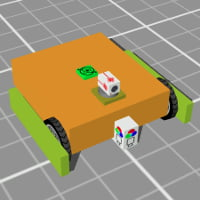
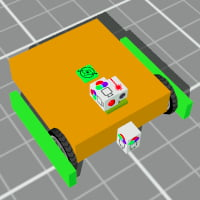
* Fixed incorrect sensor range setting for maze2 robot

diff --git a/public/js/robotTemplates.js b/public/js/robotTemplates.js
@@ -270,7 +270,8 @@ var robotTemplates = [
     name: 'maze2',
     shortDescription: 'Maze Runner MkII',
     longDescription:
-      '<p>This is an advanced maze runner robot that replaces the original\'s three ultrasonic sensor with a single laser range finder mounted on a swivel platform.</p>',
+      '<p>This is an advanced maze runner robot that replaces the original\'s three ultrasonic sensor with a single laser range finder and a foward facing color sensor mounted on a swivel platform.</p>' +
+      '<p>The forward facing color sensor is specially configured for long range (30cm) and narrow view (30 degrees).</p>',
     longerDescription:
       '<h3>Dimensions</h3>' +
       '<ul>' +
@@ -289,6 +290,7 @@ var robotTemplates = [
         '<li>Port 1 : Color Sensor</li>' +
         '<li>Port 2 : Gyro</li>' +
         '<li>Port 3 : Laser Range Sensor</li>' +
+        '<li>Port 4 : Color Sensor (Forward)</li>' +
       '</ul>',
     thumbnail: 'images/robots/maze2.jpg',
 
@@ -366,7 +368,8 @@ var robotTemplates = [
             position: [1, 1.25, 0],
             rotation: [0, 0, 0],
             options: {
-              maxRange: 30
+              sensorMaxRange: 30,
+              sensorFov: 0.524
             }
           },
         ]
